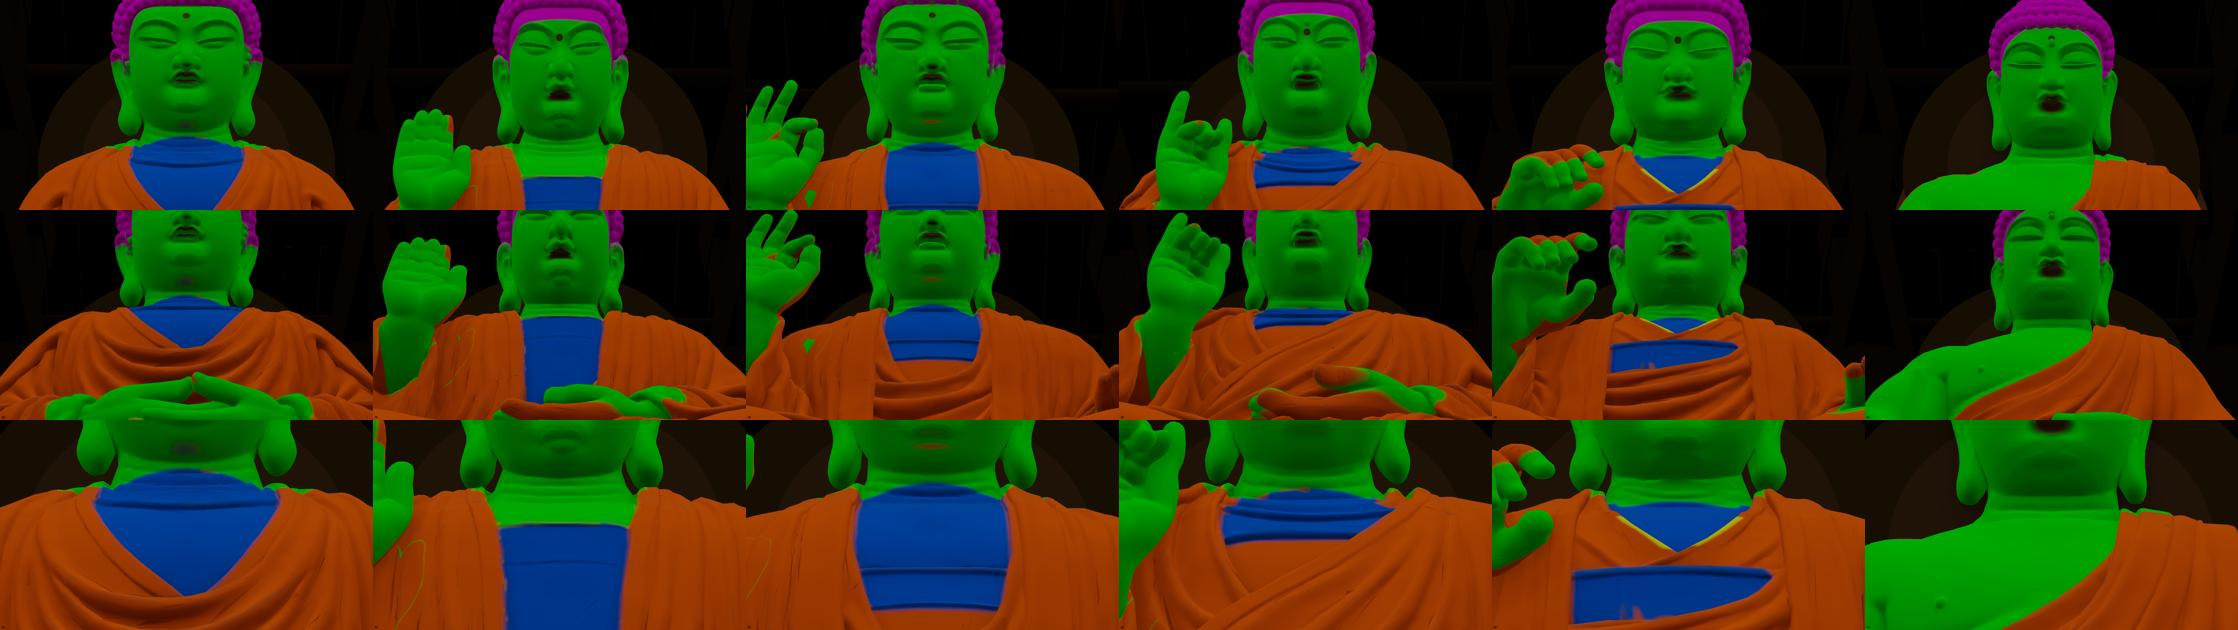
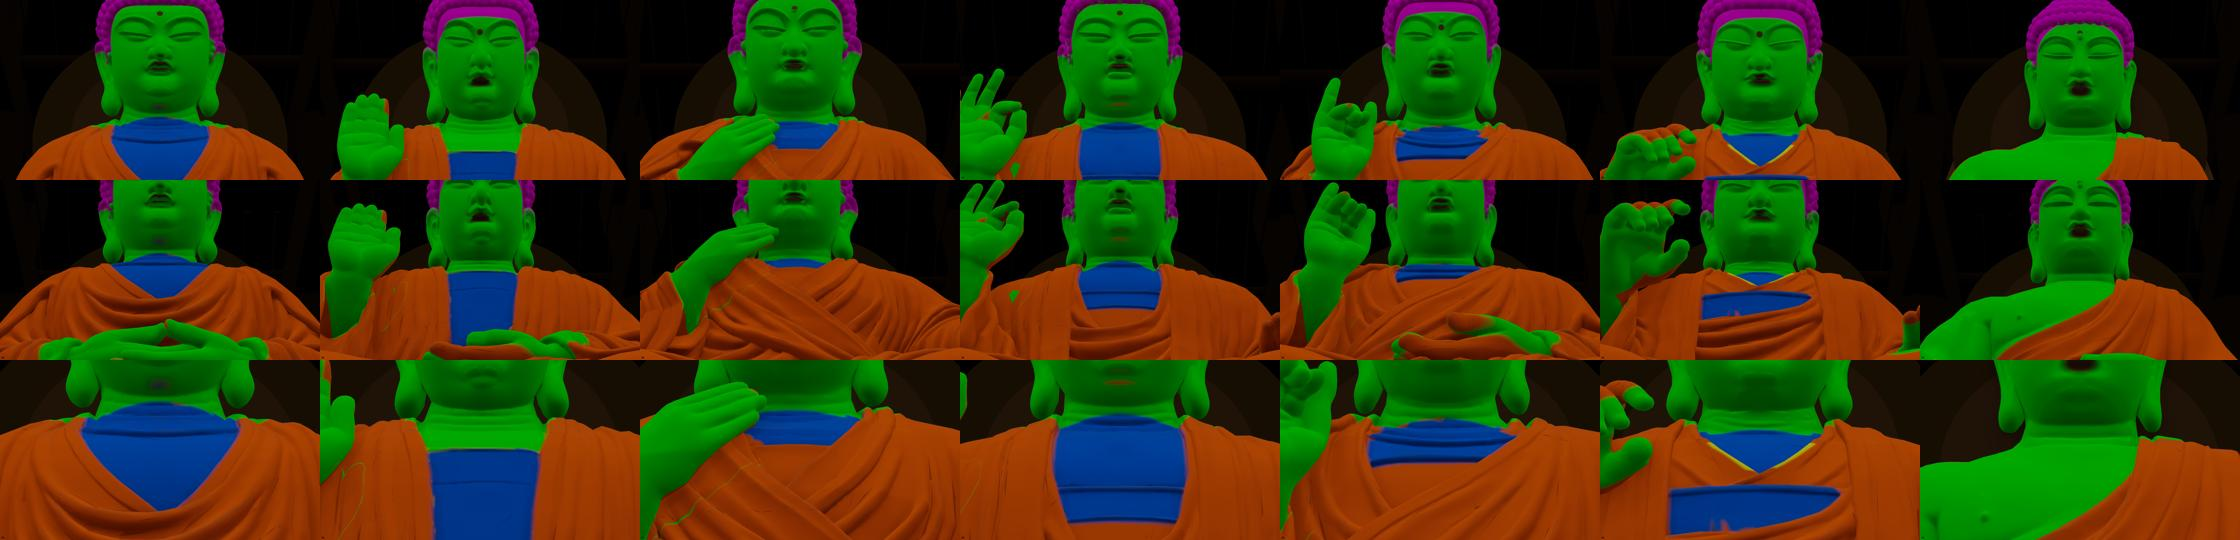
docs(t05): Sikhin on the M40v mesh added to the flat zone pictures, evidence round 20 (#701)
Claude-Session: https://claude.ai/code/session_01Cq65vGV5kdwgmxSpLQyFgB

diff --git a/docs/t05/evidence/701-flat-r20/README.md b/docs/t05/evidence/701-flat-r20/README.md
@@ -1,6 +1,6 @@
 # #701：七尊平色分区图（软件渲染，2026-11-26）——总监在平色图上判边界
 
-平色：**皮肤 绿、螺发 品红、内衣/胸衣 蓝、袈裟 橙、衣缘描金 黄**；漫射光（半球光）、没有灯影，所以颜色就是分区。机位：`mid10`（10 m 看脸）、`join`（4 m，脸与身体交界）、`collar`（颈根特写，我自己查领口用，一并给）。`png/` 的原图在数据集；`collage.jpg` 上三行是 mid10、join、collar，六列：迦叶、拘留孙、毗婆尸、毗舍浮、拘那含、释迦牟尼。**尸弃没有（他的新下巴网格到后再出他的平色图）。**
+平色：**皮肤 绿、螺发 品红、内衣/胸衣 蓝、袈裟 橙、衣缘描金 黄**；漫射光（半球光）、没有灯影，所以颜色就是分区。机位：`mid10`（10 m 看脸）、`join`（4 m，脸与身体交界）、`collar`（颈根特写，我自己查领口用，一并给）。`png/` 的原图在数据集；`collage.jpg` 上三行是 mid10、join、collar，七列：迦叶、拘留孙、尸弃、毗婆尸、毗舍浮、拘那含、释迦牟尼。**尸弃在 00:20 补上了，用的是 `sikhin-M40vb.glb`（sha256 b28819eb…e299，总监认的新下巴，保留 0.4）**；另有他的涂色 mid10 和灰模 mid10（`sikhin-painted-mid10.png`、`sikhin-clay-mid10.png`）。
 
 ## 对总监 23:50 判的逐条
 1. **拘留孙领口**：颈到蓝方块上沿之间全是肤色，蓝块上沿落在那道横的几何折（掩码里内衣的框上沿放到折处，肤色区的种子铺满颈下的带，两边在法线最强的线上相遇）。上面的细绿带、粉块没有了。
@@ -15,3 +15,7 @@
 - 拘那含领口的 V 的两边有黄边（衣缘描金，设计）；
 - 迦叶、毗婆尸的肩与颈交界处有零星一两个像素的绿或橙；毗婆尸手下方的袈裟上有一小块绿点；
 - 手旁袈裟折线上有几条细绿线（平色图里才看得出，在涂色图里是袈裟折线的亮边）。
+
+
+## 尸弃（M40v）在平色图上
+皮肤、发、内衣、袈裟的边都落在几何上：发际在台阶、耳是绿、颈到蓝带上沿接上、贴胸手到指尖全绿（指尖原来是橙，加了一根小胶囊，它在正面图里被手背挡住）。他的下巴按 M40v（脸型线抹平的颏面）；颏两侧嘴角下的两小团是上一轮 mouthlift，不在这一轮范围。手旁袈裟折线上的细绿线是折痕上的磨损（fold wear 露出底色），不是皮肤区，涂色图里是折线的亮边。
